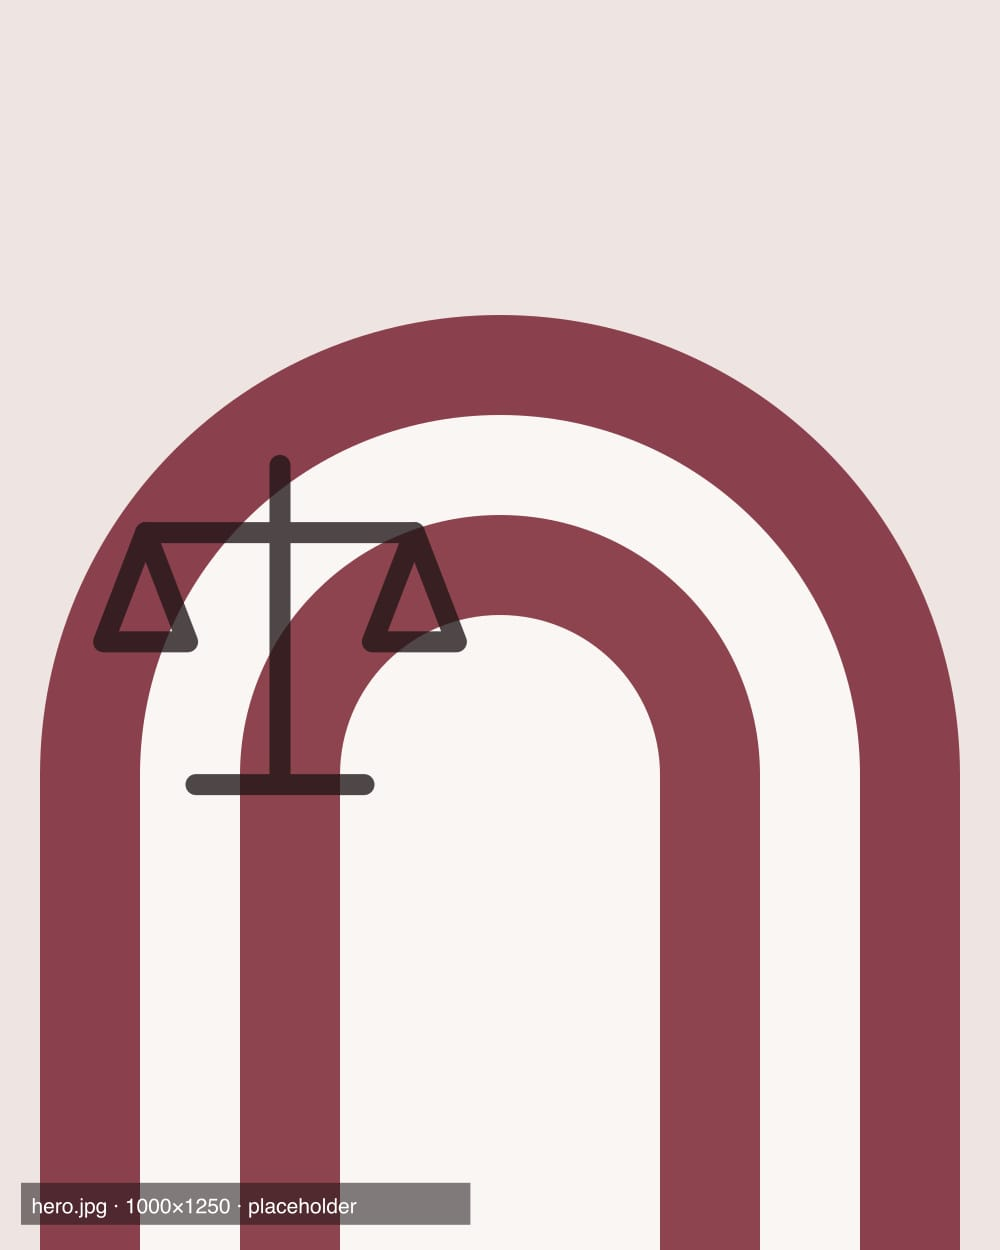
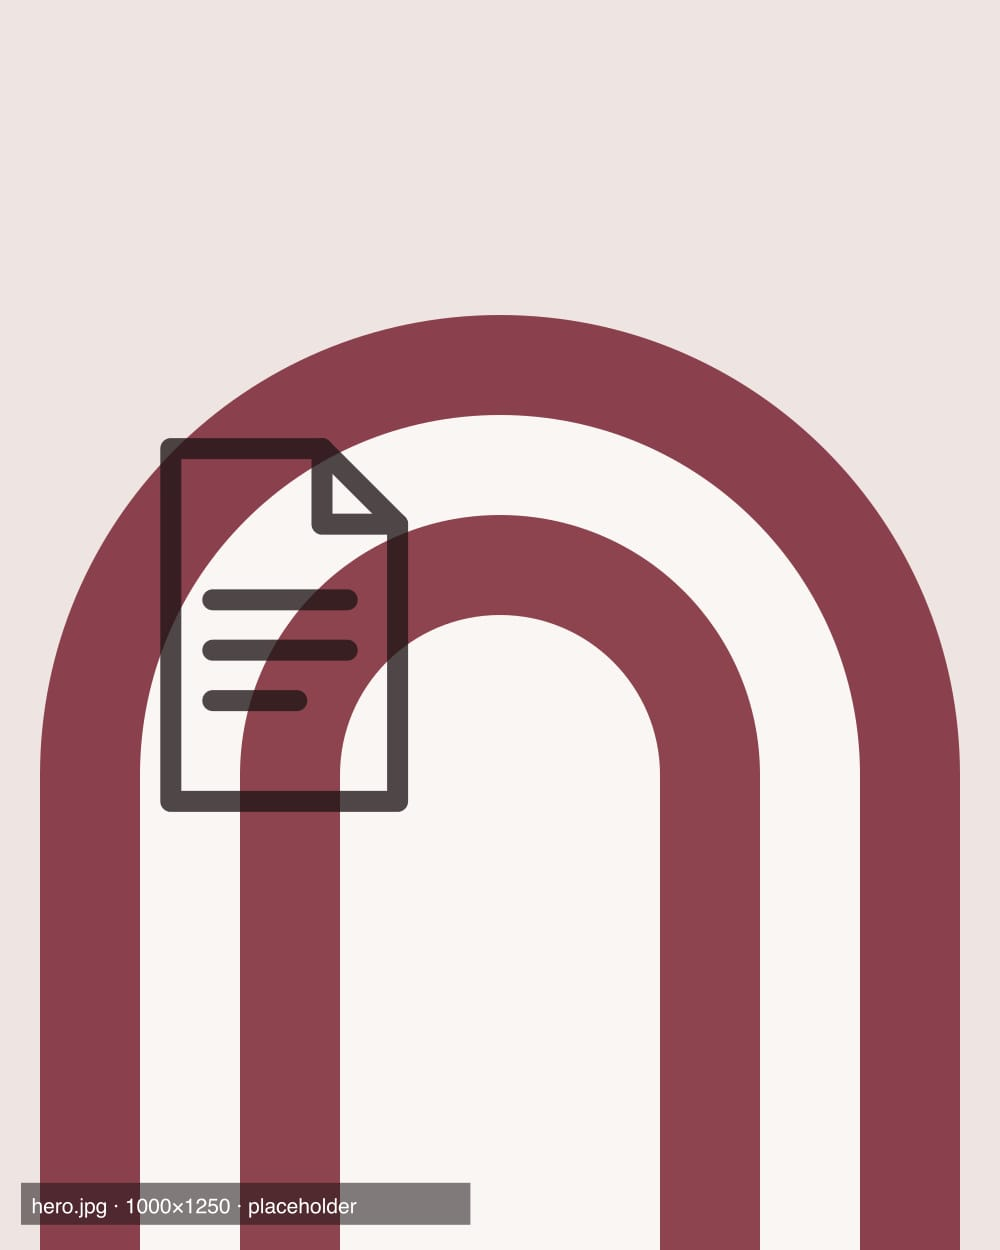
fix(template-kit): despacho placeholders use a document and a calculator
Found reviewing a skill-made accounting firm: the hero placeholder drew the
scales of justice, which reads as a law firm. Hero and about now use motifs
that fit both tones; the scales stay in the gallery cycle. Regenerates the
despacho-cifra-clara placeholders.

Changed region(s): [[0.093, 0.3432, 0.465, 0.6552]]

diff --git a/packages/template-kit/src/lib/placeholders.ts b/packages/template-kit/src/lib/placeholders.ts
@@ -165,9 +165,10 @@ const VERTICAL_MOTIFS: Record<
     about: 'toothbrush',
     cycle: ['sparkle', 'tooth', 'smile', 'toothbrush'],
   },
+  // Neutral for accounting and legal firms alike; the scales only show up in the gallery cycle.
   despacho: {
-    hero: 'scale',
-    about: 'document',
+    hero: 'document',
+    about: 'calculator',
     cycle: ['briefcase', 'calculator', 'document', 'scale'],
   },
   tienda: {
